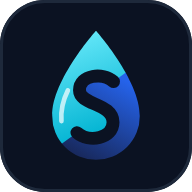
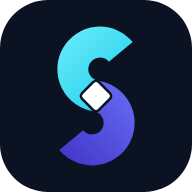
brand: two halves of one S, held by a seal
The client and the freelancer as identical halves of an S, joined at the
centre by a diamond seal: the escrow. Replaces the drop, which read as a
water project.

diff --git a/index.html b/index.html
@@ -3,14 +3,14 @@
   <head>
     <meta charset="UTF-8" />
     <meta name="viewport" content="width=device-width, initial-scale=1.0" />
-    <link rel="icon" type="image/svg+xml" href="/secureflow-favicon.svg?v=5" />
+    <link rel="icon" type="image/svg+xml" href="/secureflow-favicon.svg?v=7" />
     <link
       rel="icon"
       type="image/png"
       sizes="192x192"
-      href="/secureflow-icon-192.png?v=5"
+      href="/secureflow-icon-192.png?v=7"
     />
-    <link rel="apple-touch-icon" href="/apple-touch-icon.png?v=5" />
+    <link rel="apple-touch-icon" href="/apple-touch-icon.png?v=7" />
     <link rel="manifest" href="/manifest.json" />
     <meta name="theme-color" content="#0B1222" />
     <title>SecureFlow - Milestone Escrow on Stellar</title>
